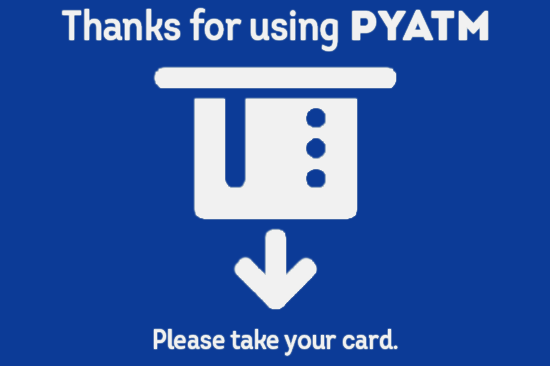
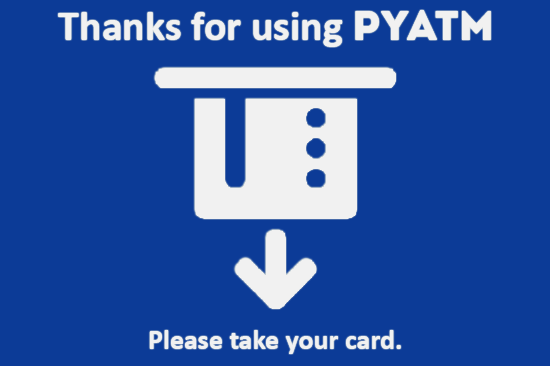
add servicepage structure and overall font Cleanup - Changes varying assets font to calibri. - added servicepages buttons and structure - connected card data into servicepages. - services are not ready yet.

Changed region(s): [[0.0927, 0.0, 0.8964, 0.1503], [0.2473, 0.8716, 0.7418, 0.9918]]

diff --git a/Interface/ServicePage.py b/Interface/ServicePage.py
@@ -1,14 +1,118 @@
 from tkinter import *
+from pathlib import Path
 
 class ServicePage(Frame):
     # Class Description
     """Creates a Frame that holds the service options """
-    def __init__(self, parent, *args, **kwargs):
+    def __init__(self, parent, card, *args, **kwargs):
         # Initalizes a frame with the give parameters of the constructor
         Frame.__init__(self, parent, bg=parent['bg'], *args, **kwargs)
 
         # Creates Few Properties to Manipulate the Interface
         self.Background = parent['bg']
+        self.SelectedCard = card
 
         # Populates the Frame
-        Label(self,text="Services Under CONSTRUCTION",font=("Calibri", 18, "bold"),fg="#f1f1f1",bg=self.Background).pack(pady=20)
+        self.UserDescriptor().grid(row=0,column=0,padx=(0,145),pady=10,sticky=NW)
+        self.ServiceSelector().grid(row=0,column=1,pady=10, sticky=W)
+        self.QuickCash().grid(row=1,column=1,pady=(20,0),sticky=NSEW)
+
+    def UserDescriptor(self):
+        # Method Description:
+        """Creates a Frame and populates it with Numbered Buttons"""
+        # Create a Frame to hold the various controls/buttons and sets its Background.
+        userFrame = Frame(self, bg=self.Background)
+        TitleLabel(userFrame, text="Welcome,").pack(anchor=W)
+        DetailsLabel(userFrame, text=self.SelectedCard.UserName).pack(anchor=W)
+        TitleLabel(userFrame, text="Account Type:").pack(anchor=W)
+        DetailsLabel(userFrame, text=self.SelectedCard.accountType).pack(anchor=W)
+        return userFrame
+
+    def ServiceSelector(self):
+        # Method Description:
+        """Creates a Frame and populates it with Numbered Buttons"""
+        # Create a Frame to hold the various controls/buttons and sets its Background.
+        selectorFrame = Frame(self, bg=self.Background)
+        TitleLabel(selectorFrame, text="Available Services:").grid(row=0,column=0,padx=(5,10),pady=(5,10), sticky=W)
+        ServiceButton(selectorFrame,text="Withdraw").grid(row=1,column=0,padx=(5,10),pady=(5,10))
+        ServiceButton(selectorFrame,text="Deposit").grid(row=1,column=1,padx=(10,5),pady=(5,10))
+        ServiceButton(selectorFrame,text="Balance").grid(row=2,column=0,padx=(5,10),pady=(10,5))
+        ServiceButton(selectorFrame,text="Transactions").grid(row=2,column=1,padx=(10,5),pady=(10,5))
+        return selectorFrame
+
+    def QuickCash(self):
+        quickFrame = Frame(self, bg=self.Background)
+        QuickButton(quickFrame,text="Quick Cash - 100 L.E.").pack(expand=1, fill=X)
+        return quickFrame
+
+
+# Hardcoded Stylized Widgets: (Subclass of Existing Widgets)
+class ServiceButton(Button):
+     # Class Description
+    """Stylized Buttons For Use In ATM Service Selection Controls"""
+    def __init__(self, parent, *args, **kwargs):
+        # Initalizes A Button, and Hard Codes Few Styles.
+        Button.__init__(self, parent, *args, **kwargs)
+        self['width'] = 26
+        self['height'] = 2
+        self['border'] = 0
+        self['font'] = ("Calibri", 19, "bold")
+        self['bg']="#0077cc"
+        self['fg']="#f1f1f1"
+        self['activebackground'] = "#2257bf"
+        self['activeforeground'] = "#afafaf"
+        # self.photo = PhotoImage(file=Path(__file__).parent / photoname)  
+        # self.config(image=self.photo, compound = CENTER)
+        # Binds the hover over events to a set of functions
+        self.bind("<Enter>", self.OnEnter)
+        self.bind("<Leave>", self.OnLeave)
+    # When Mouse is Over
+    def OnEnter(self, e):
+        self['bg'] = "#0095ff"
+    # When Mouse Leaves
+    def OnLeave(self, e):
+        self['bg'] = "#0077cc"
+
+class QuickButton(Button):
+    # Class Description
+    """Stylized Buttons For Use In ATM Quick Cash Service"""
+    def __init__(self, parent, *args, **kwargs):
+        # Initalizes A Button, and Hard Codes Few Styles.
+        Button.__init__(self, parent, *args, **kwargs)
+        self['height'] = 1
+        self['font'] = ("Calibri", 19, "bold")
+        self['border'] = 0
+        self['bg'] = "#e5ac00"
+        self['fg'] = "#f1f1f1"
+        self['activebackground'] = "#bf8f00"
+        self['activeforeground'] = "#afafaf"
+        # Binds the hover over events to `a set of functions
+        self.bind("<Enter>", self.OnEnter)
+        self.bind("<Leave>", self.OnLeave)
+    # When Mouse is Over
+    def OnEnter(self, e):
+        self['bg'] = "#ffbf00"
+    # When Mouse Leaves
+    def OnLeave(self, e):
+        self['bg'] = "#e5ac00"
+
+class TitleLabel(Label):
+    def __init__(self, parent, *args, **kwargs):
+        # Initalizes A Button, and Hard Codes Few Styles.
+        Label.__init__(self, parent, *args, **kwargs)
+        self['font'] = ("Calibri", 24, "bold")
+        self['border'] = 0
+        self['justify'] = LEFT
+        self['bg'] = "#0c3b97"
+        self['fg'] = "#f1f1f1"
+    
+class DetailsLabel(Label):
+    def __init__(self, parent, *args, **kwargs):
+        # Initalizes A Button, and Hard Codes Few Styles.
+        Label.__init__(self, parent, *args, **kwargs)
+        self['font'] = ("Calibri", 18)
+        self['border'] = 0
+        self['anchor'] = W
+        self['justify'] = LEFT
+        self['bg'] = "#0c3b97"
+        self['fg'] = "#1a96dc"

diff --git a/Interface/AppWindow.py b/Interface/AppWindow.py
@@ -57,30 +57,30 @@ class Window(Tk):
         # Method Description
         """Switches to Pin Page If Card is valid, else returns card"""
         if PredefinedCards[cardIndex].IsValid:
-            self.ReturnButton.pack(side=TOP, padx=(890,0), pady=(30,0))
+            self.ReturnButton.pack(side=TOP, padx=(870,20), pady=(30,0))
             self.CurrentPage.destroy()
             self.CurrentPage=PinPage(self, PredefinedCards[cardIndex])
             self.CurrentPage.pack(side=TOP, pady=(45,0))
         else :
             self.ReturnCard("Invalid")
 
-    def OpenServicePage(self):
+    def OpenServicePage(self,selectedCard):
         # Method Description
         """Switches to the Service Page"""
         self.CurrentPage.destroy()
-        self.CurrentPage=ServicePage(self)
-        self.CurrentPage.pack(side=TOP)
+        self.CurrentPage=ServicePage(self,selectedCard)
+        self.CurrentPage.pack(side=TOP, pady=(45,0))
 
 class ReturnCardButton(Button):
      # Class Description
-    """Stylized Buttons For Use In ATM Pin Controls"""
+    """Stylized Buttons For Use As a Return Card Control"""
     def __init__(self, parent, *args, **kwargs):
         # Initalizes A Button, and Hard Codes Few Styles.
         Button.__init__(self, parent, *args, **kwargs)
         self['border'] = 0
         self['fg']="#f1f1f1"
         self['activebackground'] = "#004373"
-        self['activeforeground'] = "#72a3ff"
+        self['activeforeground'] = "#afafaf"
         self['bg'] = "#0c3b97"
         self.photo = PhotoImage(file=Path(__file__).parent / "Assets/CustomButton2.png")    
         self.config(image=self.photo, compound = LEFT)

diff --git a/Interface/CardPage.py b/Interface/CardPage.py
@@ -52,7 +52,7 @@ class CardPage(Frame):
 # Hardcoded Stylized Widgets: (Subclass of Existing Widgets)
 class CardButton(Button):
      # Class Description
-    """Stylized Buttons For Use In ATM Pin Controls"""
+    """Stylized Buttons For Use In ATM Card Selection Controls"""
     def __init__(self, parent, *args, **kwargs):
         # Initalizes A Button, and Hard Codes Few Styles.
         Button.__init__(self, parent, *args, **kwargs)
@@ -63,7 +63,7 @@ class CardButton(Button):
         self['border'] = 0
         self['fg']="#f1f1f1"
         self['activebackground'] = "#004373"
-        self['activeforeground'] = "#72a3ff"
+        self['activeforeground'] = "#afafaf"
         self['bg'] = "#0066ae"
         self.photo = PhotoImage(file=Path(__file__).parent / "Assets/CustomButton1.png")  
         self.config(image=self.photo, compound = LEFT)

diff --git a/Interface/PinPage.py b/Interface/PinPage.py
@@ -78,7 +78,7 @@ class PinPage(Frame):
         try:
             pin = int(self.InputPin.get())
             if self.SelectedCard.CheckPin(pin):
-                self.Parent.OpenServicePage()
+                self.Parent.OpenServicePage(self.SelectedCard)
             else:
                 if (self.SelectedCard.ErrorCounter < 5):
                     self.StatusMessage.config(text="Incorrect Pin, Remaining Retries: "+str(5-self.SelectedCard.ErrorCounter))
@@ -113,7 +113,7 @@ class NumPadButton(Button):
         self['bg']="#0077cc"
         self['fg']="#f1f1f1"
         self['activebackground'] = "#2257bf"
-        self['activeforeground'] = "#004a80"
+        self['activeforeground'] = "#afafaf"
         # Binds the hover over events to a set of functions
         self.bind("<Enter>", self.OnEnter)
         self.bind("<Leave>", self.OnLeave)
